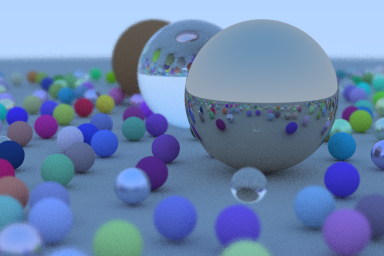
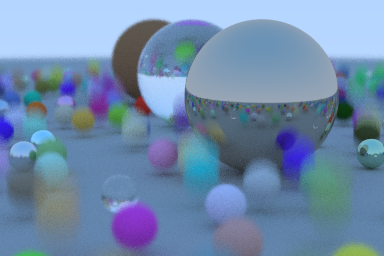
Added motion blur program.

diff --git a/src/raytrace/attribute.h b/src/raytrace/attribute.h
@@ -1,0 +1,183 @@
+#pragma once
+
+/// \file raytrace/attribute.h
+///
+/// Container for time-sampled values.
+
+#include <raytrace/ray.h>
+
+#include <gm/functions/linearInterpolation.h>
+
+#include <gm/types/floatRange.h>
+#include <gm/types/intRange.h>
+
+#include <algorithm>
+#include <vector>
+
+RAYTRACE_NS_OPEN
+
+/// \class Attribute
+///
+/// Attribute encapsulates a collection of time sampled values of \p ValueT, allowing efficient
+/// value retrieval or interpolation for a requested time.
+///
+/// \tparam ValueT The underlying value type that this attribute
+///
+/// \pre \p ValueT must be default constructable, with deterministic value(s).
+/// \pre \p ValueT must be also be linearly interpolatable via \ref gm::LinearInterpolation.
+template < typename ValueT >
+class Attribute
+{
+public:
+    /// \typedef ValueType
+    ///
+    /// Convenience type definition for the value type that this attribute stores.
+    using ValueType = ValueT;
+
+    /// \typedef TimeSampleType
+    ///
+    /// Convenience type definition for the compound of the time with associated value type.
+    using TimeSampleType = std::pair< float, ValueT >;
+
+    /// Explicit constructor with an vector of time sampled values.
+    ///
+    /// \param i_timeSamples Values with associated times.
+    explicit inline Attribute( std::vector< TimeSampleType > i_timeSamples )
+    {
+        struct
+        {
+            bool operator()( TimeSampleType a, TimeSampleType b ) const
+            {
+                return a.first < b.first;
+            }
+        } TimeSampleComp;
+
+        // Sort time samples by time code.
+        std::sort( i_timeSamples.begin(), i_timeSamples.end(), TimeSampleComp );
+
+        // Store times and values as _separate_ vectors.
+        // This will enable faster binary search over the m_times array. (less memory read overhead!)
+        m_times.resize( i_timeSamples.size() );
+        m_values.resize( i_timeSamples.size() );
+        for ( size_t sampleIndex = 0; sampleIndex < i_timeSamples.size(); ++sampleIndex )
+        {
+            m_times[ sampleIndex ]  = i_timeSamples[ sampleIndex ].first;
+            m_values[ sampleIndex ] = i_timeSamples[ sampleIndex ].second;
+        }
+    }
+
+    /// Get the value at time \p i_time.
+    ///
+    /// The value is sampled through the following ordered cases:
+    ///
+    /// -# If this attribute has a single time sample, then that value is returned.
+    /// -# If this attribute has no time samples, then the value type is default constructed and returned.
+    /// -# Otherwise, a binary search will be performed to find the requested time sampled value.
+    ///     - If the requested \p i_time is not stored by this attribute,
+    ///        the value will be linearly interpolated by the nearest lower and upper
+    ///        time sampled values.
+    ///     - If \p i_time is less than the lowest time then the value at the lowest time will be returned.
+    ///     - The same scenario applies for the scenario when \p i_time is greater than the highest/ time,
+    ///       the highest time sampled value is returned!
+    ///
+    /// \param i_time The time at which to sample to value.
+    ///
+    /// \return The time sampled value.
+    inline ValueT Value( float i_time = 0.0f ) const
+    {
+        if ( m_times.size() == 1 )
+        {
+            // A single time sample.  Immediately return value.
+            return m_values[ 0 ];
+        }
+        else if ( i_time < m_times[ 0 ] )
+        {
+            // Requested time is less than min time sample.  Simply return the associated value.
+            return m_values[ 0 ];
+        }
+        else if ( i_time > m_times[ m_times.size() - 1 ] )
+        {
+            // Requested time is greater than max time sample.  Simply return the associated value.
+            return m_values[ m_times.size() - 1 ];
+        }
+        else if ( m_times.empty() )
+        {
+            // No time samples.  Default construct value.
+            return ValueType();
+        }
+        else
+        {
+            return _BinarySearchValue( i_time );
+        }
+    }
+
+private:
+    // Compute the binary search index based on lower and upper bound indices.
+    inline int _BinarySearchIndex( int i_lowerBound, int i_upperBound ) const
+    {
+        return i_lowerBound + i_upperBound / 2;
+    }
+
+    // Helper function to interpolate a value for a time within two adjacent time samples.
+    inline ValueT _InterpolateValue( float                 i_time,
+                                     const gm::FloatRange& i_adjacentTimes,
+                                     const gm::IntRange&   i_adjacentIndices ) const
+    {
+        // Compute a normalized weight for linear interpolation, based on the where the requested
+        // time resides in between its adjacent times.
+        float weight = gm::LinearMap( i_time, i_adjacentTimes, gm::FloatRange( 0.0, 1.0 ) );
+        return gm::LinearInterpolation( m_values[ i_adjacentIndices.Min() ],
+                                        m_values[ i_adjacentIndices.Max() ],
+                                        weight );
+    }
+
+    // Perform a binary search to retrieve or interpolate a time sampled value.
+    inline ValueT _BinarySearchValue( float i_time ) const
+    {
+        int lowerBound = 0;
+        int upperBound = m_times.size() - 1;
+        while ( true )
+        {
+            int   searchIndex = _BinarySearchIndex( lowerBound, upperBound );
+            float searchTime  = m_times[ searchIndex ];
+            if ( i_time == searchTime )
+            {
+                // We have an exact time sample match!
+                return m_values[ searchIndex ];
+            }
+            else if ( i_time > searchTime )
+            {
+                GM_ASSERT( searchIndex + 1 < ( int ) m_times.size() );
+                if ( i_time < m_times[ searchIndex + 1 ] )
+                {
+                    return _InterpolateValue( i_time,
+                                              gm::FloatRange( searchTime, m_times[ searchIndex + 1 ] ),
+                                              gm::IntRange( searchIndex, searchIndex + 1 ) );
+                }
+
+                lowerBound = searchIndex + 1;
+                continue;
+            }
+            else // ( i_time < searchTime )
+            {
+                GM_ASSERT( searchIndex - 1 >= 0 );
+                if ( i_time > m_times[ searchIndex - 1 ] )
+                {
+                    return _InterpolateValue( i_time,
+                                              gm::FloatRange( m_times[ searchIndex - 1 ], searchTime ),
+                                              gm::IntRange( searchIndex - 1, searchIndex ) );
+                }
+
+                upperBound = searchIndex - 1;
+                continue;
+            }
+        }
+    }
+
+    // Time sample array with with associated values.
+    // These arrays are sorted, and correspond to one another!
+    std::vector< float >  m_times;
+    std::vector< ValueT > m_values;
+};
+
+RAYTRACE_NS_CLOSE

diff --git a/src/raytrace/sphere.h b/src/raytrace/sphere.h
@@ -4,6 +4,7 @@
 ///
 /// Representation of a ray-traceable sphere.
 
+#include <raytrace/attribute.h>
 #include <raytrace/ray.h>
 #include <raytrace/sceneObject.h>
 
@@ -20,11 +21,24 @@ RAYTRACE_NS_OPEN
 class Sphere : public SceneObject
 {
 public:
-    /// Construct a Sphere with a origin and radius.
+    /// Construct a static Sphere with a origin and radius.
     ///
     /// \param i_origin The origin of the sphere.
     /// \param i_radius The radius of the sphere.
     inline explicit Sphere( const gm::Vec3f& i_origin, float i_radius, MaterialSharedPtr i_material = nullptr )
+        : m_origin( {{0, i_origin}} )
+        , m_radius( i_radius )
+        , m_material( i_material )
+    {
+    }
+
+    /// Construct a dynamic (moving!) Sphere with a origin and radius.
+    ///
+    /// \param i_origin The origin of the sphere.
+    /// \param i_radius The radius of the sphere.
+    inline explicit Sphere( const Attribute< gm::Vec3f >& i_origin,
+                            float                         i_radius,
+                            MaterialSharedPtr             i_material = nullptr )
         : m_origin( i_origin )
         , m_radius( i_radius )
         , m_material( i_material )
@@ -35,7 +49,11 @@ public:
     Hit( const raytrace::Ray& i_ray, const gm::FloatRange& i_magnitudeRange, HitRecord& o_record ) const override
     {
         gm::Vec2f intersections;
-        if ( gm::RaySphereIntersection( m_origin, m_radius, i_ray.Origin(), i_ray.Direction(), intersections ) > 0 )
+        if ( gm::RaySphereIntersection( m_origin.Value( i_ray.Time() ),
+                                        m_radius,
+                                        i_ray.Origin(),
+                                        i_ray.Direction(),
+                                        intersections ) > 0 )
         {
             if ( intersections[ 0 ] < i_magnitudeRange.Max() && intersections[ 0 ] > i_magnitudeRange.Min() )
             {
@@ -53,44 +71,6 @@ public:
         return false;
     }
 
-    /* Reference implementation.
-    virtual inline bool
-    Hit( const raytrace::Ray& i_ray, const gm::FloatRange& i_magnitudeRange, HitRecord& o_record ) const override
-    {
-        gm::Vec3f oc           = i_ray.Origin() - m_origin;
-        auto      a            = gm::LengthSquared( i_ray.Direction() );
-        auto      half_b       = gm::DotProduct( oc, i_ray.Direction() );
-        auto      c            = gm::LengthSquared( oc ) - m_radius * m_radius;
-        auto      discriminant = half_b * half_b - a * c;
-
-        if ( discriminant > 0 )
-        {
-            auto root = sqrt( discriminant );
-
-            auto temp = ( -half_b - root ) / a;
-            if ( temp < i_magnitudeRange.Max() && temp > i_magnitudeRange.Min() )
-            {
-                o_record.m_magnitude = temp;
-                o_record.m_position  = gm::RayPosition( i_ray.Origin(), i_ray.Direction(), o_record.m_magnitude );
-                o_record.m_normal    = ( o_record.m_position - m_origin ) / m_radius;
-                o_record.m_material  = m_material;
-                return true;
-            }
-
-            temp = ( -half_b + root ) / a;
-            if ( temp < i_magnitudeRange.Max() && temp > i_magnitudeRange.Min() )
-            {
-                o_record.m_magnitude = temp;
-                o_record.m_position  = gm::RayPosition( i_ray.Origin(), i_ray.Direction(), o_record.m_magnitude );
-                o_record.m_normal    = ( o_record.m_position - m_origin ) / m_radius;
-                o_record.m_material  = m_material;
-                return true;
-            }
-        }
-        return false;
-    }
-    */
-
 private:
     /// Helper method to record a ray hitting the sphere.
     ///
@@ -100,13 +80,13 @@ private:
     inline void _Record( const raytrace::Ray& i_ray, float i_rayMagnitude, HitRecord& o_record ) const
     {
         o_record.m_position  = gm::RayPosition( i_ray.Origin(), i_ray.Direction(), i_rayMagnitude );
-        o_record.m_normal    = ( o_record.m_position - m_origin ) / m_radius;
+        o_record.m_normal    = ( o_record.m_position - m_origin.Value( i_ray.Time() ) ) / m_radius;
         o_record.m_magnitude = i_rayMagnitude;
         o_record.m_material  = m_material;
     }
 
     // The origin of the sphere.
-    gm::Vec3f m_origin;
+    Attribute< gm::Vec3f > m_origin;
 
     // The radius of the sphere.
     float m_radius = 0.0f;

diff --git a/src/0_motionBlur/main.cpp b/src/0_motionBlur/main.cpp
@@ -219,8 +219,9 @@ void ShadePixel( const gm::Vec2i&          i_pixelCoord,
 
 /// Populate the scene by appending a variety of objects to \p o_sceneObjects.
 ///
+/// \param i_shutterRange The time range where the shutter opens and closes.
 /// \param o_sceneObjects Collection to populate with scene objects.
-void PopulateSceneObjects( SceneObjectPtrs& o_sceneObjects )
+void PopulateSceneObjects( const gm::FloatRange& i_shutterRange, SceneObjectPtrs& o_sceneObjects )
 {
     raytrace::MaterialSharedPtr groundMaterial = std::make_shared< raytrace::Lambert >( gm::Vec3f( 0.5, 0.5, 0.5 ) );
     o_sceneObjects.push_back( std::make_unique< raytrace::Sphere >( gm::Vec3f( 0, -1000, 0 ), 1000, groundMaterial ) );
@@ -243,7 +244,19 @@ void PopulateSceneObjects( SceneObjectPtrs& o_sceneObjects )
                                       gm::RandomNumber( c_normalizedRange ) );
 
                     raytrace::MaterialSharedPtr sphereMaterial = std::make_shared< raytrace::Lambert >( albedo );
-                    o_sceneObjects.push_back( std::make_unique< raytrace::Sphere >( center, 0.2, sphereMaterial ) );
+
+                    // Compute a random Y axis translation.
+                    gm::Vec3f centerTranslation( 0, gm::RandomNumber( gm::FloatRange( 0, 0.5f ) ), 0 );
+
+                    // Set multiple time samples for the sphere.
+                    std::vector< std::pair< float, gm::Vec3f > > timeSamples = {
+                        {i_shutterRange.Min(), center},
+                        {i_shutterRange.Max(), center + centerTranslation}};
+
+                    o_sceneObjects.push_back(
+                        std::make_unique< raytrace::Sphere >( raytrace::Attribute< gm::Vec3f >( timeSamples ),
+                                                              0.2,
+                                                              sphereMaterial ) );
                 }
                 else if ( materialChoice < 0.95 )
                 {
@@ -358,7 +371,7 @@ int main( int i_argc, char** i_argv )
     // ------------------------------------------------------------------------
 
     SceneObjectPtrs sceneObjects;
-    PopulateSceneObjects( sceneObjects );
+    PopulateSceneObjects( shutterRange, sceneObjects );
 
     // ------------------------------------------------------------------------
     // Compute ray colors.
